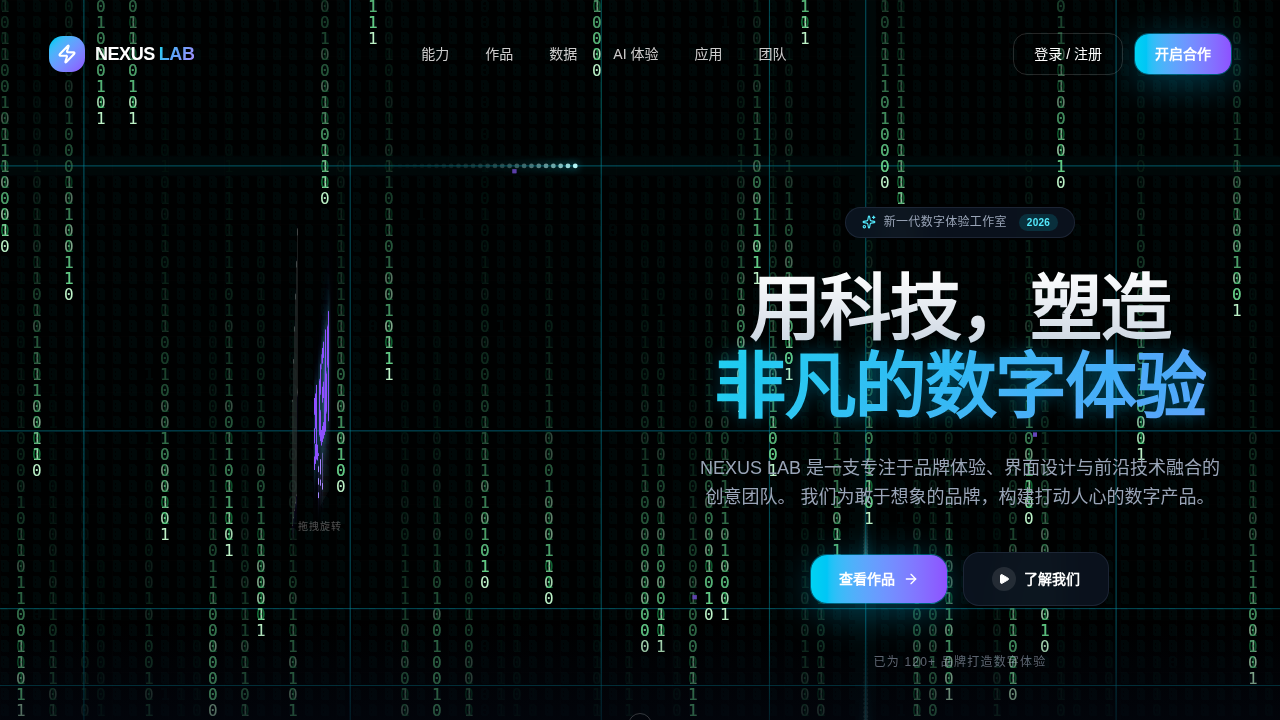
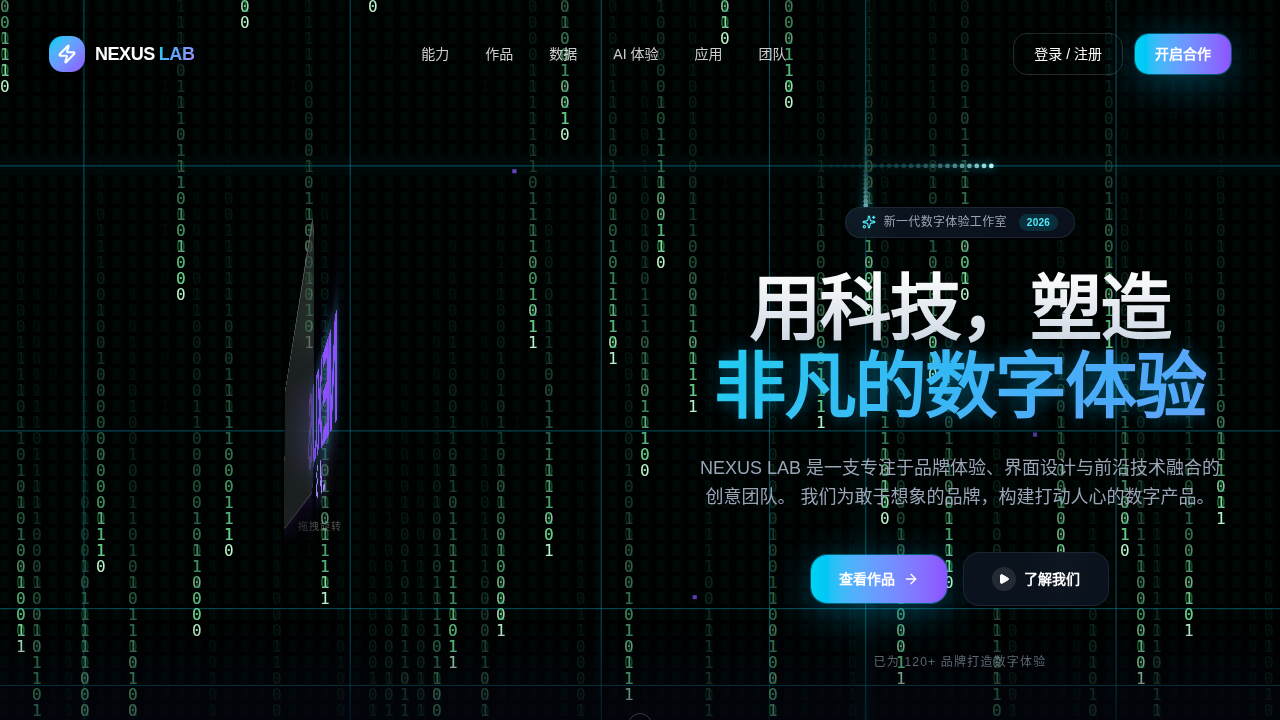
feat(cli): setup 向导支持多家平台 Key（OpenAI/DeepSeek/智谱/通义/Kimi/硅基流动/自定义），不再写死 OpenRouter
- 选 1 后先挑平台，自动带出服务地址与模型名，写入 config.json 与 backend/.env
- 非 OpenRouter 平台不再强制 sk- 前缀，仅做长度兜底
- 候选模型链按平台隔离，避免拿 OpenRouter 模型名请求别家服务
- 清理机器人里过时的 OPENROUTER_API_KEY 检查与死字段（已统一走后端大脑）
- README / .env.example / skill 文档同步多平台说明

diff --git a/nexus-bot/src/config.ts b/nexus-bot/src/config.ts
@@ -6,10 +6,9 @@ function bool(v: string | undefined): boolean {
   return v === 'true' || v === '1' || v === 'yes';
 }
 
+// 说明：机器人已统一走后端大脑（/api/ai/v1），不再直连模型厂商，
+// 因此这里没有 openrouterKey / model —— 模型与密钥一律在后端 backend/.env 里配。
 export const CONFIG = {
-  openrouterKey: process.env.OPENROUTER_API_KEY || '',
-  openrouterBase: process.env.OPENROUTER_BASE || 'https://openrouter.ai/api/v1',
-  model: process.env.BOT_MODEL || 'z-ai/glm-5.2',
   systemPrompt: process.env.BOT_SYSTEM_PROMPT || '',
   wechatSystemPrompt: process.env.WECHAT_SYSTEM_PROMPT || '',
   historyLimit: Number(process.env.BOT_HISTORY_LIMIT || '20'),

diff --git a/nexus-bot/src/index.ts b/nexus-bot/src/index.ts
@@ -31,9 +31,9 @@ async function main(): Promise<void> {
     console.log(`[bot] 健康检查服务已启动，监听端口 ${healthPort}`);
   });
 
-  if (!CONFIG.openrouterKey) {
-    console.warn('⚠ 未设置 OPENROUTER_API_KEY，对话将无法工作（其他平台仍会启动）');
-  }
+  // 机器人已统一走后端大脑，模型与 Key 都在后端配置，所以这里不再检查 OPENROUTER_API_KEY
+  // —— 后端换成 DeepSeek / 智谱 / OpenAI 等平台，机器人一样能用。
+  console.log(`[bot] 大脑地址：${process.env.NEXUS_API_BASE || 'http://localhost:3000/api/ai/v1'}`);
 
   const p = CONFIG.platforms;
   const adapters: BotAdapter[] = [];

diff --git a/README.md b/README.md
@@ -179,8 +179,9 @@
 3. **Node.js ≥ 18** 和 **pnpm**。
    - 装 Node：https://nodejs.org （选 LTS）
    - 装 pnpm：装好 Node 后，命令行跑 `npm install -g pnpm`
-4. **一个 AI Key**（推荐 OpenRouter，免费申请）。
-   - 去 https://openrouter.ai/keys 注册 → 创建一个 Key（免费额度够日常玩）。
+4. **一个 AI Key**（下面任意一家都支持，用你手头有的那家就行）。
+   - 想省事 → **OpenRouter**：https://openrouter.ai/keys 注册就有免费额度。
+   - 已经有别家 Key → **OpenAI / DeepSeek / 智谱 GLM / 通义千问 / Kimi / 硅基流动** 都能直接用，不必为了跑这个项目专门去注册 OpenRouter。
    - 这就是后面要填的 `AI_API_KEY`。
 5. **可选**：
    - 想跑**高质量本地生图 / 生视频** → 需要一张显卡 + 自己部署 ComfyUI（见「进阶一」）。
@@ -280,8 +281,24 @@ nexusai setup
 
 它会问两种用法，选一个：
 
-- **用法 1（推荐，自带 Key）**：选「用自己的 Key」，把 OpenRouter 的 Key 粘进去。无限流、最稳，Key 只存在本地。
+- **用法 1（推荐，自带 Key）**：选「用自己的 Key」，再挑一家平台（见下表），把该平台的 Key 粘进去。向导会自动带出对应的服务地址和常用模型，并现场验证一次，通过才保存。无限流、最稳，Key 只存在本地。
 - **用法 2（连中继）**：如果知道某个站长部署的中继地址，选这个填进去，可免自己申请 Key（但有每日额度）。自己没部署中继**不要**选这个。
+
+**向导里可选的平台**（地址、模型都由向导自动填好，你只出 Key）：
+
+| 选哪家 | 服务地址 | Key 去哪拿 |
+|--------|----------|-----------|
+| OpenRouter（新手推荐） | `https://openrouter.ai/api/v1` | https://openrouter.ai/keys （有免费额度） |
+| OpenAI 官方 | `https://api.openai.com/v1` | https://platform.openai.com/api-keys |
+| DeepSeek | `https://api.deepseek.com/v1` | https://platform.deepseek.com/api_keys |
+| 月之暗面 Kimi | `https://api.moonshot.cn/v1` | https://platform.moonshot.cn/console/api-keys |
+| 智谱 GLM | `https://open.bigmodel.cn/api/paas/v4` | https://open.bigmodel.cn/usercenter/apikeys |
+| 通义千问（百炼） | `https://dashscope.aliyuncs.com/compatible-mode/v1` | https://bailian.console.aliyun.com |
+| 硅基流动 | `https://api.siliconflow.cn/v1` | https://cloud.siliconflow.cn/account/ak |
+| 其它 | 自己填 | 任何 OpenAI 兼容服务都可以 |
+
+> 换平台时模型名会跟着换（例如 DeepSeek 用 `deepseek-chat`），向导会自动写进配置，不用手改。
+> 识图（发图片）能力各家支持程度不同，个别平台没有识图模型时只影响发图片，不影响文字对话。
 
 配置会写进两个地方（优先级：`~/.nexusai/config.json` > `backend/.env`）：
 
@@ -294,7 +311,7 @@ nexusai setup
 
 | 配置 | 说明 | 默认 |
 |------|------|------|
-| `AI_API_BASE` | AI 服务地址。自带 Key 用 `https://openrouter.ai/api/v1`；连中继填 `…/api/ai/v1` | openrouter |
+| `AI_API_BASE` | AI 服务地址。任何 OpenAI 兼容服务都行（OpenRouter / OpenAI / DeepSeek / 智谱 / 通义 / Kimi / 硅基流动…）；连中继填 `…/api/ai/v1` | openrouter |
 | `AI_API_KEY` | **必填**。自带 Key 模式填自己的模型密钥；连中继模式填中继的公开令牌 | 空 |
 | `AI_MODEL` | 对话主模型 | 免费模型，会随上下架变化 |
 | `AI_MODEL_THINK` | 深度思考（推理）模型 | deepseek-r1:free |
@@ -308,7 +325,7 @@ nexusai setup
 | `ACEMUSIC_API_KEY` | AI 音乐（ACE-Step）。不填也能用其它音乐 provider | 空 |
 | `AI_BOT_TOKEN` | 开中继模式才设（站长用） | 空 |
 
-AI 密钥获取（免费）：https://openrouter.ai/keys
+AI 密钥获取：OpenRouter 可免费申请 https://openrouter.ai/keys ；也可直接用你已有的 OpenAI / DeepSeek / 智谱 / 通义 / Kimi / 硅基流动 Key —— 把上表的服务地址填进 `AI_API_BASE` 即可（`nexusai setup` 会自动填）。
 
 > 仓库默认**不内置任何可用服务器地址**，装完须配置一次。如果看到 `Hostname/IP does not match certificate` 报错，说明地址填的是示例占位域名，运行 `nexusai setup` 重新填写即可。
 >
@@ -318,7 +335,7 @@ AI 密钥获取（免费）：https://openrouter.ai/keys
 
 网页端对话默认走**前端设置页里填的接口与 Key**（前端直连 OpenAI 兼容服务），不是走后端。打开网页 → 设置，可以配：
 
-- `chatApiBase` + `openrouterKey` + `chatModel`：对话接口（默认 OpenRouter，可改成 Ollama / LM Studio / vLLM）
+- `chatApiBase` + `openrouterKey` + `chatModel`：对话接口地址、密钥、模型名。字段名叫 `openrouterKey` 是历史原因，填**任意平台**的 Key 都行（配合 `chatApiBase` 指到那家平台）；默认 OpenRouter，也可改成 Ollama / LM Studio / vLLM
 - `chatModelThink`：深度思考模型
 - `pollinationsToken`：生图令牌（不填也能画）
 - `comfyUrl` / `comfyCheckpoint` / `comfyUnet` / `comfyVae` / `comfyClipVision`：本地 ComfyUI 生图 / 视频

diff --git a/skill/references/config.md b/skill/references/config.md
@@ -24,11 +24,22 @@ pnpm -C nexus-bot install      # 机器人，可选
 第一次使用必须配置一次（填自己的 Key，或连接别人搭好的中继）：
 
 ```bash
-nexusai setup      # 向导式，选「用自己的 Key」粘贴即可
+nexusai setup      # 向导式：选「用自己的 Key」→ 挑平台 → 粘贴 Key
 nexusai config     # 随时查看当前配置与登录状态
 ```
 
-免费 Key 申请：<https://openrouter.ai/keys>
+支持的平台（选 1 后挑一家，地址与模型名会自动填好）：
+
+| 平台 | 服务地址 | Key 申请 |
+|------|----------|----------|
+| OpenRouter（推荐） | `https://openrouter.ai/api/v1` | <https://openrouter.ai/keys> |
+| OpenAI | `https://api.openai.com/v1` | <https://platform.openai.com/api-keys> |
+| DeepSeek | `https://api.deepseek.com/v1` | <https://platform.deepseek.com/api_keys> |
+| 月之暗面 Kimi | `https://api.moonshot.cn/v1` | <https://platform.moonshot.cn/console/api-keys> |
+| 智谱 GLM | `https://open.bigmodel.cn/api/paas/v4` | <https://open.bigmodel.cn/usercenter/apikeys> |
+| 通义千问（百炼） | `https://dashscope.aliyuncs.com/compatible-mode/v1` | <https://bailian.console.aliyun.com> |
+| 硅基流动 | `https://api.siliconflow.cn/v1` | <https://cloud.siliconflow.cn/account/ak> |
+| 其它 | 自定义 | 任意 OpenAI 兼容服务 |
 
 配置会写入两处：
 
@@ -41,7 +52,7 @@ nexusai config     # 随时查看当前配置与登录状态
 
 | 配置 | 说明 |
 |------|------|
-| `AI_API_BASE` | AI 服务地址，自带 Key 用 `https://openrouter.ai/api/v1` |
+| `AI_API_BASE` | AI 服务地址，任何 OpenAI 兼容服务均可（OpenRouter / OpenAI / DeepSeek / 智谱…） |
 | `AI_API_KEY` | **必填**，模型密钥 |
 | `AI_MODEL` / `AI_VISION_MODEL` | 对话 / 识图模型 |
 | `DB_MODE` | `local`（默认，内嵌数据库零安装）/ `cloud`（云端） |
